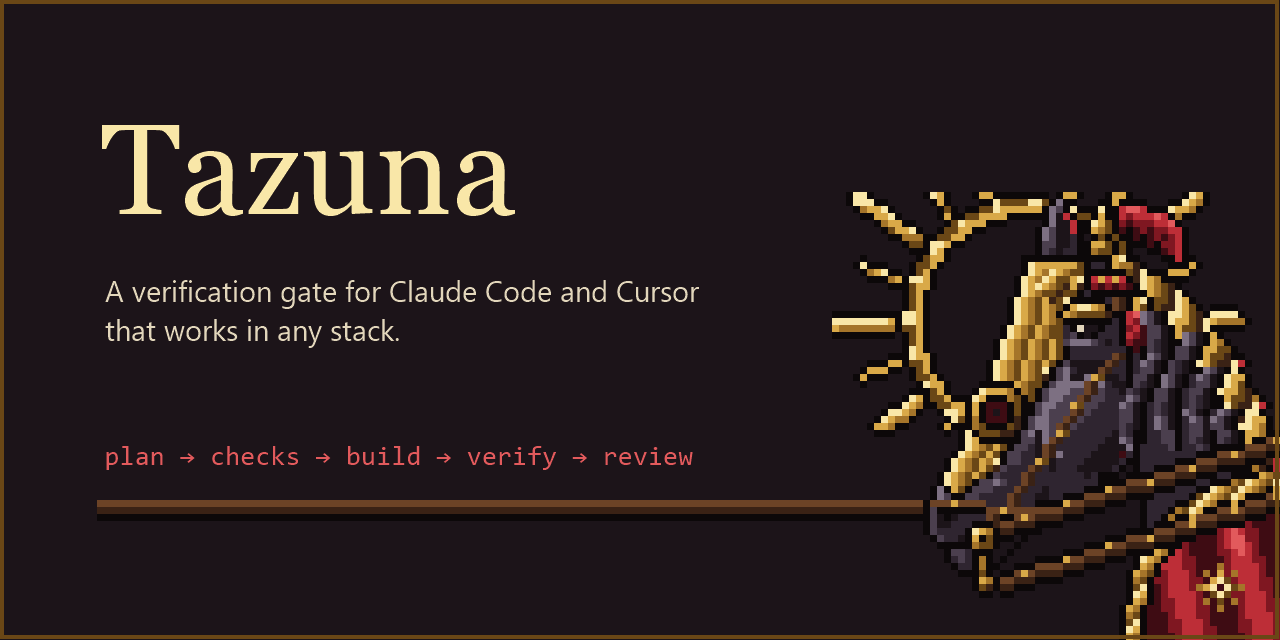
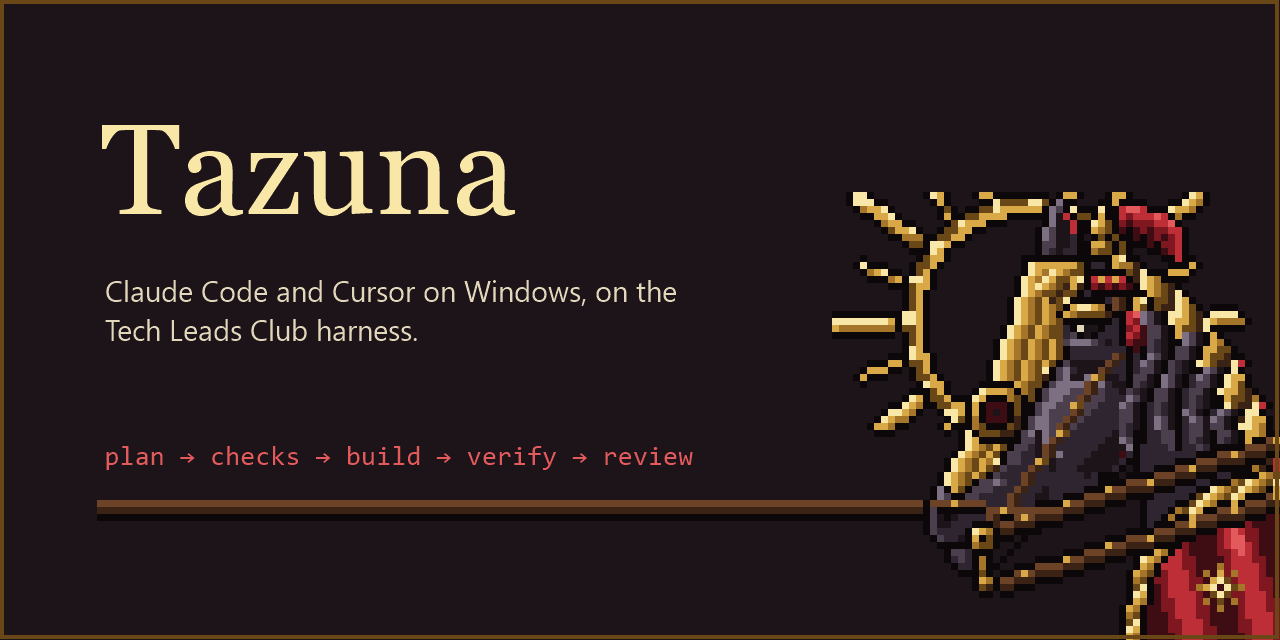
docs: Tazuna sets up the machine; harness-toolkit sets up the project
README:
- The tagline and About section describe Tazuna on top of harness-toolkit
  and agent-skills.
- "Your first project" is now /harness-init plus `tlc harness gate
  test-command` and `grind on`. A test command must start with an .exe,
  because the gate spawns it without a shell.
- A new "Upgrading from 1.x" section covers rerunning the installer, then
  tazuna init in each project.
- The loop, How it works, Safety and Troubleshooting describe grind instead
  of the removed Stop gate.
- The Safety table now states the gap the removed hook used to cover: the
  deny rules do not catch `git -C . push`, and Cursor has no permission
  rules, so there the toolkit stops only `push --force`.

docs/cursor.md describes projects set up through the toolkit. The banner
and the social preview carry the new tagline, re-rendered.

Changed region(s): [[0.0625, 0.4375, 0.5625, 0.5312]]

diff --git a/README.md b/README.md
@@ -11,7 +11,7 @@
 
 *No turn ends on untested code. The seal lights only for what was proven.*
 
-A verification gate for Claude Code and Cursor that works in any stack, with the Tech Leads Club workflow ready to use on Windows. One command sets up the machine and another sets up each project.
+Claude Code and Cursor on Windows, set up in one command on top of the Tech Leads Club's harness-toolkit and agent skills. Tazuna sets up the machine; harness-toolkit sets up each project and runs its tests before a turn ends.
 
 [Getting started](#getting-started) · [Usage](#usage) · [Report a problem](https://github.com/AlfredoNeeto/tazuna/issues)
 
@@ -36,11 +36,11 @@ A verification gate for Claude Code and Cursor that works in any stack, with the
 
 > *No work is finished because its author says so.*
 
-A coding agent often ends its turn with "done" on code that nobody ran, and adding rules to the prompt does not change that. What helps is a small context, room to implement, and proof from someone who did not write the code. Tazuna sets that up for Claude Code or Cursor, whichever you use, and enforces one step itself: a turn that changed code cannot end until the agent has run the project's own build and tests.
+A coding agent often ends its turn with "done" on code that nobody ran, and adding rules to the prompt does not change that. What helps is a small context, room to implement, and proof from someone who did not write the code. Tazuna sets that up for Claude Code or Cursor, whichever you use. The one step that is enforced, running the project's tests before a turn that changed code can end, is harness-toolkit's `grind`; Tazuna installs the toolkit, and `tazuna doctor` tells you when a project's gate is off or cannot start.
 
-Tazuna (手綱) means reins, the part of a horse's harness the rider holds. Writing on agents describes *Agent = Model + Harness*, where the harness combines guides, which steer the agent before it acts (`AGENTS.md`, rules, skills, permissions), and sensors, which check the result afterwards (`verify.ps1`, the Verifier, `/review-change`). Reins do both: they steer the horse and let the rider feel it, and the horse still supplies the strength.
+Tazuna (手綱) means reins, the part of a horse's harness the rider holds. Writing on agents describes *Agent = Model + Harness*, where the harness combines guides, which steer the agent before it acts (`AGENTS.md`, rules, skills, permissions), and sensors, which check the result afterwards (the toolkit's gate, the Verifier, `/review-change`). Reins do both: they steer the horse and let the rider feel it, and the horse still supplies the strength.
 
-Tazuna itself is small. It installs the Tech Leads Club's `tlc-*` skills and `harness-toolkit`, adds its own verification gate and `/review-change`, and leaves everything else to your repository.
+Tazuna itself is small. It installs and pins `harness-toolkit` and the Tech Leads Club skills, adds `/review-change`, `/ship` and its user settings, and leaves each project to `harness-toolkit` and your repository.
 
 ## Getting started
 
@@ -70,16 +70,23 @@ git clone https://github.com/AlfredoNeeto/tazuna.git "$HOME\tazuna"; & "$HOME\ta
 $env:Path += ";$HOME\tazuna\bin"
 ```
 
-`setup` installs `harness-toolkit` 0.16.3 and runs `tlc harness install`, installs the `tlc-*`, `harness-eval`, modular-architecture, security, `the-judge`, `coding-guidelines`, `create-adr` and `create-rfc` skills from the pinned skills catalog 0.17.9 and the user MCP servers, then runs `tazuna doctor`. Running it again repairs a machine that drifted. For Claude Code it also copies `user/` into `~/.claude` and adds the `ponytail` plugin. It replaces `~/.claude/CLAUDE.md` and, in `~/.claude/settings.json`, the keys Tazuna ships, keeps your other keys and a backup of what it replaces in `~/.claude\.harness-backup\`; those settings switch off the claude.ai connectors and sync (`disableClaudeAiConnectors`). For Cursor it puts the skills, the instructions as a rule, the toolkit hooks and the servers under `~/.cursor`, and with both installed it equips both. Run `setup` and `update` outside the agent, and call `bin\tazuna.cmd` rather than the `.ps1`, which an `AllSigned` execution policy blocks.
+`setup` installs `harness-toolkit` 0.16.3 and runs `tlc harness install`, installs the `tlc-*`, `harness-eval`, modular-architecture, security, `the-judge`, `coding-guidelines`, `create-adr` and `create-rfc` skills from the pinned skills catalog 0.17.9 and the user MCP servers, then runs `tazuna doctor`. Running it again repairs a machine that drifted, and removes what an earlier version installed and this one no longer ships, keeping any copy you edited. Running the installer again on a machine that has Tazuna updates its clone first, so it replaces the installed version; a clone with local changes is refused, not overwritten. For Claude Code it also copies `user/` into `~/.claude` and adds the `ponytail` plugin. It replaces `~/.claude/CLAUDE.md` and, in `~/.claude/settings.json`, the keys Tazuna ships, keeps your other keys and a backup of what it replaces in `~/.claude\.harness-backup\`; those settings switch off the claude.ai connectors and sync (`disableClaudeAiConnectors`). For Cursor it puts the skills, the instructions as a rule, the toolkit hooks and the servers under `~/.cursor`, and with both installed it equips both. Run `setup` and `update` outside the agent, and call `bin\tazuna.cmd` rather than the `.ps1`, which an `AllSigned` execution policy blocks.
 
 ### Your first project
 
+Open the project in Claude Code or Cursor and run `/harness-init`, the toolkit's own setup. Then, in your terminal, name the command that proves the project works and turn the gate on:
+
 ```powershell
 cd C:\src\MyApi
-tazuna init
+tlc harness gate test-command dotnet test
+tlc harness grind on
 ```
 
-`init` detects the stack (`dotnet` or `generic`) and writes `AGENTS.md` plus `.claude\` with the permissions, the three hooks, stack rules and `scripts\verify.ps1`, the project's build and tests: it finds every .NET, .NET Framework, Flutter, Dart, Node, Python, Go, Rust, Maven, Gradle or Make project in the repository, wherever it sits, and skips by name a step whose tool is not installed. Cursor reads those files too, and `init` adds `.cursor/hooks.json` and the stack rules as `.cursor/rules/*.mdc` for it. It also trusts the workspace, since Claude Code silently ignores project hooks otherwise. It keeps a file you edited unless you pass `-Force`, except Tazuna's own hooks and `VerifyCommon.psm1`, which it brings up to date with a backup, and it stops with an error when the project's `settings.json` leaves the gate unwired. In `AGENTS.md`, write only what the code does not show, because every line there goes into every turn.
+`/harness-init` writes the project's policy, `.tlc/harness/config.json`, and its hook shims, and adds `.claude/settings.json` and `.cursor/hooks.json` to `.gitignore` because the shims hold a path on your machine. The gate starts its command without a shell, so on Windows the command must begin with an `.exe`: `dotnet test`, `cmd /c npm test`, `powershell.exe -NoProfile -File scripts\test.ps1`. `tazuna doctor`, run inside the project, warns when it does not and says whether `grind` is on. In `AGENTS.md`, write only what the code does not show, because every line there goes into every turn.
+
+### Upgrading from 1.x
+
+Run the installer again, or `tazuna update`. Then, in each project 1.x set up, run `tazuna init` before `/harness-init`: it removes the 1.x gate with a backup in `.harness-backup\`. It always removes the three hooks, `VerifyCommon.psm1` and `.claude\state\`. It removes `verify.ps1` and the stack rules only while they are what 1.x wrote; an edited `verify.ps1` is kept, and its steps are printed as the command to give the gate. It takes Tazuna's entries out of `.claude/settings.json` and `.cursor/hooks.json` and leaves `AGENTS.md` alone. `-WhatIf` lists all of it first.
 
 <p align="center"><img src="docs/assets/divider.svg" alt="Ornamental divider in gold, lit from the left" width="480"></p>
 
@@ -111,7 +118,7 @@ stateDiagram-v2
     class Build,Human rite
 ```
 
-`Verify` is enforced: the `Stop` gate requires a passing `verify.ps1` on every change, in every project, and rejects a Verifier report that fails its validator. The dashed steps depend on the workflow you choose.
+`Verify` is enforced once `grind` is on: when a turn that changed code ends, harness-toolkit runs the project's test command and sends a failure back to the agent. The dashed steps depend on the workflow you choose.
 
 ### Choosing a workflow
 
@@ -128,7 +135,7 @@ flowchart TD
     small -->|"[no]"| legacy{"Legacy, ambiguous, or several sessions?"}
     legacy -->|"[yes]"| driven["/tlc-spec-driven"]
     legacy -->|"[no]"| lean["/tlc-spec-lean"]
-    direct & plan & driven & lean --> gate["Stop gate: verify.ps1 passes"]
+    direct & plan & driven & lean --> gate["grind: the project's tests pass"]
     gate --> risky{"Risky: security, money, data, a public contract?"}
     risky -->|"[yes]"| review["/review-change"]
     risky -->|"[no]"| human["you review the direction"]
@@ -167,9 +174,9 @@ The command merges the entry into the project's `.mcp.json` and enables it, with
 | Command | What it does |
 |---|---|
 | `tazuna setup` | installs or repairs the machine, then runs `doctor` |
-| `tazuna init` | sets up the project you are in |
+| `tazuna init` | moves a project 1.x set up off the old gate, then points to `/harness-init` |
 | `tazuna mcp` | `mcp list` shows the catalog; `mcp add <name>` adds a server to the project |
-| `tazuna doctor` | checks the toolchain, the toolkit hooks, the skills and drift from this repository |
+| `tazuna doctor` | checks the toolchain, the toolkit hooks, the skills and drift from this repository; inside a project, its gate |
 | `tazuna update` | fast-forwards this repository and runs `setup` again |
 | `tazuna test` | runs this repository's self-test |
 | `tazuna help <command>` | shows a command's options and examples; `tazuna <command> --help` does the same |
@@ -189,7 +196,6 @@ classDiagram
     direction LR
     namespace this_repository {
         class user["user/"] { <<artifact>> }
-        class templates["templates/"] { <<artifact>> }
         class catalog["mcp/catalog.json"] { <<artifact>> }
     }
     namespace npm {
@@ -198,21 +204,18 @@ classDiagram
     }
     namespace user_home {
         class instructions["~/.claude instructions and permissions, ~/.cursor rules"] { <<artifact>> }
-        class floor["toolkit hooks"] { <<artifact>> }
-        class skills["tlc skills and harness-eval"] { <<artifact>> }
+        class floor["toolkit hooks and harness-init"] { <<artifact>> }
+        class skills["tlc, architecture, security and review skills"] { <<artifact>> }
     }
     namespace your_project {
+        class policy[".tlc/harness/config.json: the gate command and grind"] { <<artifact>> }
         class agents["AGENTS.md"] { <<artifact>> }
-        class claude[".claude/ hooks, rules, verify.ps1"] { <<artifact>> }
-        class cursor[".cursor/ hooks and rules"] { <<artifact>> }
         class mcpjson[".mcp.json"] { <<artifact>> }
     }
     user ..> instructions : tazuna setup
     toolkit ..> floor : tazuna setup
     agentskills ..> skills : tazuna setup
-    templates ..> agents : tazuna init
-    templates ..> claude : tazuna init
-    templates ..> cursor : tazuna init
+    floor ..> policy : /harness-init
     catalog ..> mcpjson : tazuna mcp add
 ```
 
@@ -222,21 +225,23 @@ What holds for every session lives in your user directory, `~/.claude` or `~/.cu
 %%{init: {'theme': 'base', 'themeVariables': {'primaryColor': '#2f2530', 'primaryTextColor': '#e2d6bb', 'primaryBorderColor': '#a5752a', 'lineColor': '#bd2e37', 'actorBkg': '#2f2530', 'actorBorder': '#a5752a', 'actorTextColor': '#e2d6bb', 'signalColor': '#bd2e37', 'signalTextColor': '#bd2e37', 'labelBoxBkgColor': '#3e0c13', 'labelBoxBorderColor': '#a5752a', 'labelTextColor': '#e2d6bb', 'loopTextColor': '#bd2e37', 'fontFamily': 'Georgia, serif'}}}%%
 sequenceDiagram
     participant A as Agent
-    participant G as Stop gate
-    participant V as verify.ps1
+    participant G as grind
+    participant T as test command
     A->>G: the turn wants to end
-    alt the code changed and verify.ps1 has not passed on it
-        G-->>A: sends the turn back with the reason
-        A->>V: run build and tests
-        V-->>A: VERIFICATION PASSED
-        A->>G: the turn wants to end
+    alt the turn changed code
+        G->>T: runs it
+        T-->>G: fails
+        G-->>A: sends the turn back with the failures
+        A->>G: fixed, the turn wants to end
+        G->>T: runs it
+        T-->>G: passes
         G-->>A: the turn ends
-    else nothing changed, or it is already verified
+    else nothing changed
         G-->>A: the turn ends
     end
 ```
 
-The gate compares a fingerprint of the code with the last passing run, blocks once per turn, and fails open without a `verify.ps1` or on its own error. A run with `-SkipTests` does not count. The fingerprint covers the files git tracks or would track, so build output and `node_modules` cost nothing, and `verify.ps1` reports the last pass instead of repeating it while that fingerprint holds; `-Force` runs it again. Claude Code receives the reason through the `Stop` hook's exit code 2; Cursor receives it as a follow-up message from its `stop` hook.
+`grind` is harness-toolkit's: it runs the project's test command when a turn that changed code ends, keeps its result per session, retries up to its configured limit and says so when the same failure repeats. Tazuna installs the toolkit and its hooks, and `tazuna doctor` checks from inside a project that the gate is on and can start its command.
 
 ## Safety
 
@@ -244,9 +249,8 @@ The gate compares a fingerprint of the code with the last passing run, blocks on
 
 | Protection | Enforced by |
 |---|---|
-| No turn ends on unverified code | the `Stop` hook (`stop` in Cursor), per project, in any stack |
-| No secret gets into a commit | the `PreToolUse` hook (`beforeShellExecution` in Cursor), which inspects what the commit will contain, a `git add` in the same command included |
-| Nothing is published or destroyed without you: `git push`, `reset --hard`, `clean`, `gh pr create`, `terraform apply` are denied, `commit` asks | permissions in `~/.claude/settings.json`; the `PreToolUse` hook also refuses `git push` however git is called and, behind any git global option such as `git -C .`, a push or a destructive git command in that call, in Cursor too, which has no permission rules of its own. It reads the command text: a guard against mistakes, not a sandbox |
+| No turn ends on untested code | harness-toolkit's `grind`, once a project has a test command and it is on |
+| Nothing is published or destroyed without you: `git push`, `reset --hard`, `clean`, `gh pr create`, `terraform apply` are denied, `commit` asks | permissions in `~/.claude/settings.json`. They match the command's start, so a push written behind a git global option, such as `git -C . push`, is not caught by them, and Cursor has no permission rules at all: there, harness-toolkit only stops `push --force` |
 | Secrets stay out of the context: `.env`, `*.pem` and `~/.ssh` are unreadable, secret-looking output is masked | Claude Code permissions and `harness-toolkit` |
 | Nothing is destroyed outside the repository, and `push --force` is denied | the `harness-toolkit` floor, which in 0.16.3 sees only Bash tool commands; for PowerShell the `deny` rules hold |
 | No feature is done without independent proof | the Verifier and `validate_verification.py` |
@@ -259,11 +263,11 @@ The gate compares a fingerprint of the code with the last passing run, blocks on
 |---|---|
 | `tazuna` is not recognised | open a new shell, or run `& "$HOME\tazuna\bin\tazuna.cmd" setup` |
 | `doctor`: `no tlc-exec hook` or `skill ... is missing` | run `tazuna setup` in your terminal |
-| The turn does not end: "The code changed since the last passing verification" | that is the gate: run `.\.claude\scripts\verify.ps1` and fix what fails |
+| The project's tests never run when a turn ends | run `tazuna doctor` in the project: `grind` is off, there is no test command, or the command starts with a `.cmd` or `.ps1` the gate cannot start; wrap it in `cmd /c` |
+| `doctor`: the Tazuna 1.x gate is still here | run `tazuna init` in that project |
 | The toolkit denied something | `tlc harness why` shows the latest decisions and their rules |
 | `doctor`: `installed but not in the repository` | a skill or agent you added yourself; it stays active, and `setup` never removes it |
-| You want the toolkit's `harness-init` skill | it is hidden on purpose because it gitignores the project settings; use `tazuna init` |
-| `.tlc/` shows up as untracked | `tazuna init` adds `**/.tlc/harness/state/` to `.gitignore` |
+| `.claude/settings.json` is now in `.gitignore` | `/harness-init` puts it there because its hook shims hold a path on your machine |
 | Everything looks wrong in Claude Code | `claude --safe-mode` starts it without any customisation |
 
 <p align="center"><img src="docs/assets/divider.svg" alt="Ornamental divider in gold, lit from the left" width="480"></p>
@@ -272,7 +276,7 @@ The gate compares a fingerprint of the code with the last passing run, blocks on
 
 > *The order welcomes every pilgrim who brings proof.*
 
-Issues and pull requests are welcome. The rules are in [AGENTS.md](AGENTS.md): after any change `tazuna test` has to print `VERIFICATION PASSED`, and the target is Windows PowerShell 5.1. CI runs the same self-test on `windows-latest`. Changes are listed in [CHANGELOG.md](CHANGELOG.md).
+Issues and pull requests are welcome. The rules are in [AGENTS.md](AGENTS.md): after any change `tazuna test` has to print `HARNESS SELF-TEST PASSED`, and the target is Windows PowerShell 5.1. CI runs the same self-test on `windows-latest`. Changes are listed in [CHANGELOG.md](CHANGELOG.md).
 
 ## License
 
@@ -283,7 +287,7 @@ Tazuna's own code is released under the MIT License, see [LICENSE](LICENSE). Wha
 | Piece | Licence |
 |---|---|
 | `harness-toolkit` | Elastic License 2.0: free to use and modify, not to offer as a hosted service; not OSI open source |
-| `agent-skills` (the `tlc-*` and `harness-eval` skills) | CC-BY-4.0, with attribution to the Tech Leads Club |
+| `agent-skills` (the Tech Leads Club skills `setup` installs) | CC-BY-4.0, with attribution to the Tech Leads Club |
 | `humanizer` skill by Siqi Chen | MIT, in [user/skills/humanizer/LICENSE](user/skills/humanizer/LICENSE) |
 | `ponytail` plugin by [DietrichGebert](https://github.com/DietrichGebert/ponytail) | its own licence, in that repository; installed from its marketplace, not copied here |
 

diff --git a/docs/cursor.md b/docs/cursor.md
@@ -13,8 +13,8 @@ Open Cursor once before running `setup`, so `%USERPROFILE%\.cursor` exists: that
 
 | Piece | Where it lands |
 |---|---|
-| the `tlc-*` and `harness-eval` skills | `~/.cursor/skills`, by `agent-skills -a cursor` |
-| `review-change` and `humanizer` skills, the `reviewer` agent | `~/.cursor/skills`, `~/.cursor/agents` |
+| the Tech Leads Club skills: `tlc-*`, `harness-eval`, architecture, security and review | `~/.cursor/skills`, by `agent-skills -a cursor` |
+| `ship`, `review-change` and `humanizer` skills, the `reviewer` agent | `~/.cursor/skills`, `~/.cursor/agents` |
 | the engineering instructions (`user/CLAUDE.md`) | `~/.cursor/rules/tazuna.mdc`, a global rule applied in every project |
 | the `harness-toolkit` hooks | `~/.cursor/hooks.json`, by `tlc harness install` |
 | the user MCP servers (`context7`, `playwright`, `agent-skills`) | added to `~/.cursor/mcp.json`; servers already there are kept |
@@ -22,26 +22,19 @@ Open Cursor once before running `setup`, so `%USERPROFILE%\.cursor` exists: that
 Claude Code steps (`~/.claude`, plugins, `claude mcp`) are skipped when `claude` is not on PATH.
 With both installed, `setup` equips both.
 
-## What `init` does for Cursor
+## Projects
 
-`tazuna init` writes the same `AGENTS.md` and `.claude\` as for Claude Code, which Cursor reads, plus:
-
-| File | For |
-|---|---|
-| `.cursor/hooks.json` | runs the three project hooks: the baseline at `sessionStart`, the secret check at `beforeShellExecution`, the verification gate at `stop` |
-| `.cursor/rules/*.mdc` | the stack rules of `.claude/rules/`, converted to Cursor's format |
-
-The gate works as in Claude Code: when a turn changed code and `.\.claude\scripts\verify.ps1` has
-not passed on it, Cursor receives a follow-up message asking for the verification, once per turn.
+A project is set up as for Claude Code: `/harness-init` in Cursor, then
+`tlc harness gate test-command <command>` and `tlc harness grind on` in a terminal. The toolkit
+writes the project's `.cursor/hooks.json`, and its gate runs the test command when a turn that
+changed code ends. A project Tazuna 1.x set up needs `tazuna init` first, which also takes
+Tazuna's entries out of `.cursor/hooks.json` and removes the stack rules it wrote to
+`.cursor/rules/`.
 
 ## Not available in Cursor
 
 | Missing | Why |
 |---|---|
-| the `deny` and `ask` permission rules | Cursor has no settings-file permission model; the `harness-toolkit` shell floor still applies |
+| the `deny` and `ask` permission rules | Cursor has no settings-file permission model; the `harness-toolkit` shell floor still applies, and it stops `push --force` but not a plain `git push` |
 | the `ponytail` plugin | a Claude Code plugin |
 | `tazuna mcp add` | it writes `.mcp.json` for Claude Code; add a project server to `.cursor/mcp.json` by hand |
-
-Cursor also imports Claude Code hooks from `.claude/settings.json` ("Third-Party Imports").
-The project hooks detect a Cursor payload and step aside there, so the gate runs once, from
-`.cursor/hooks.json`.
